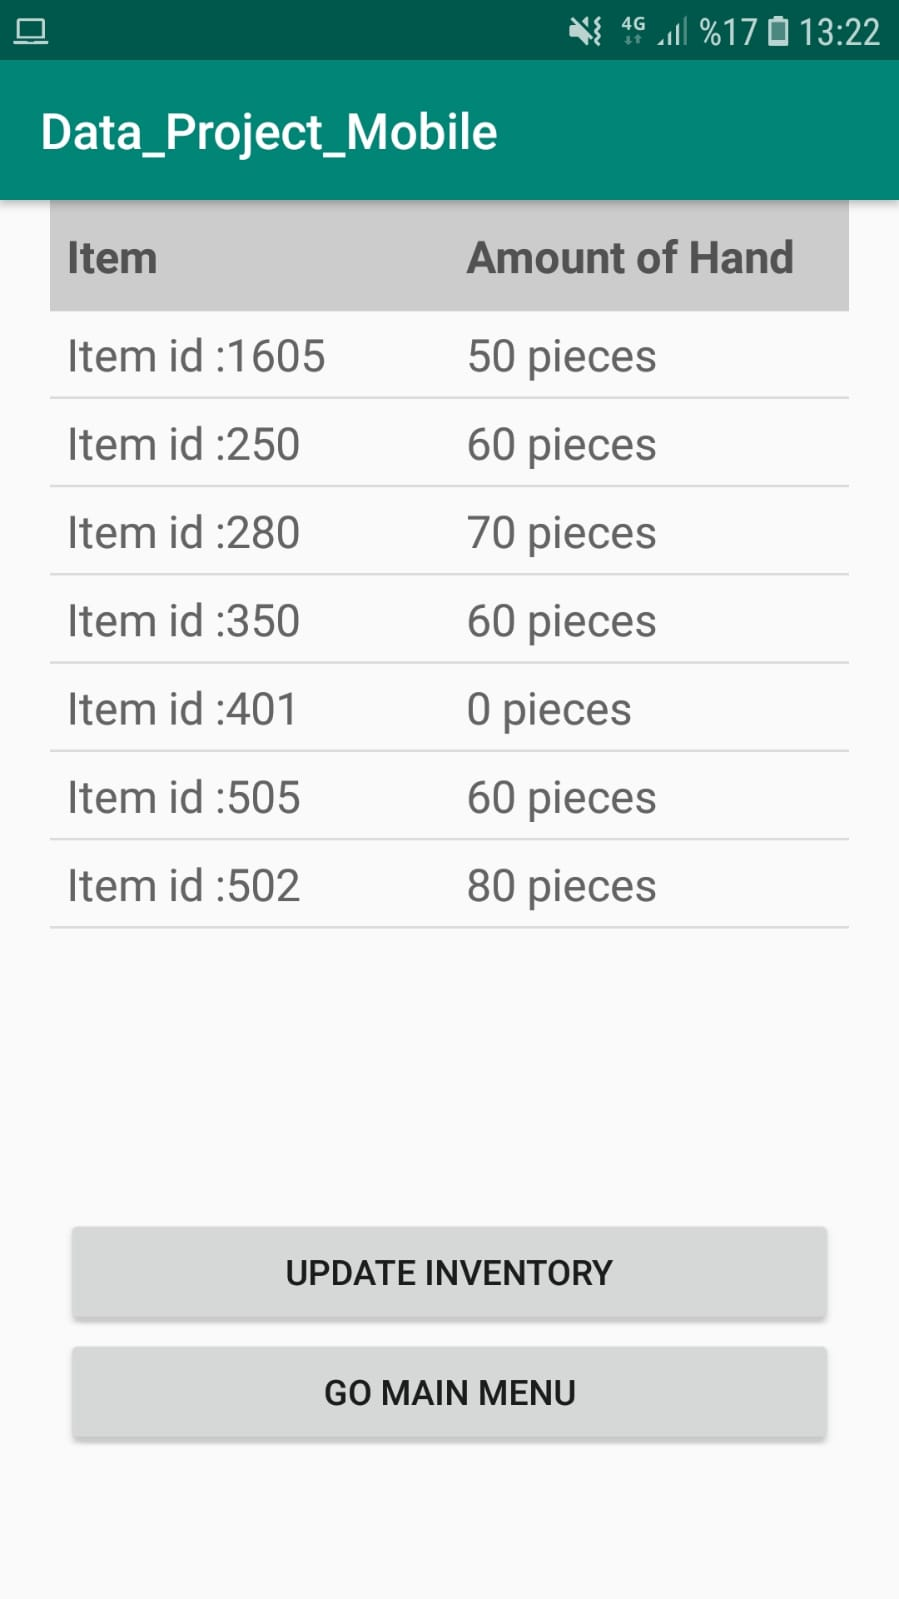
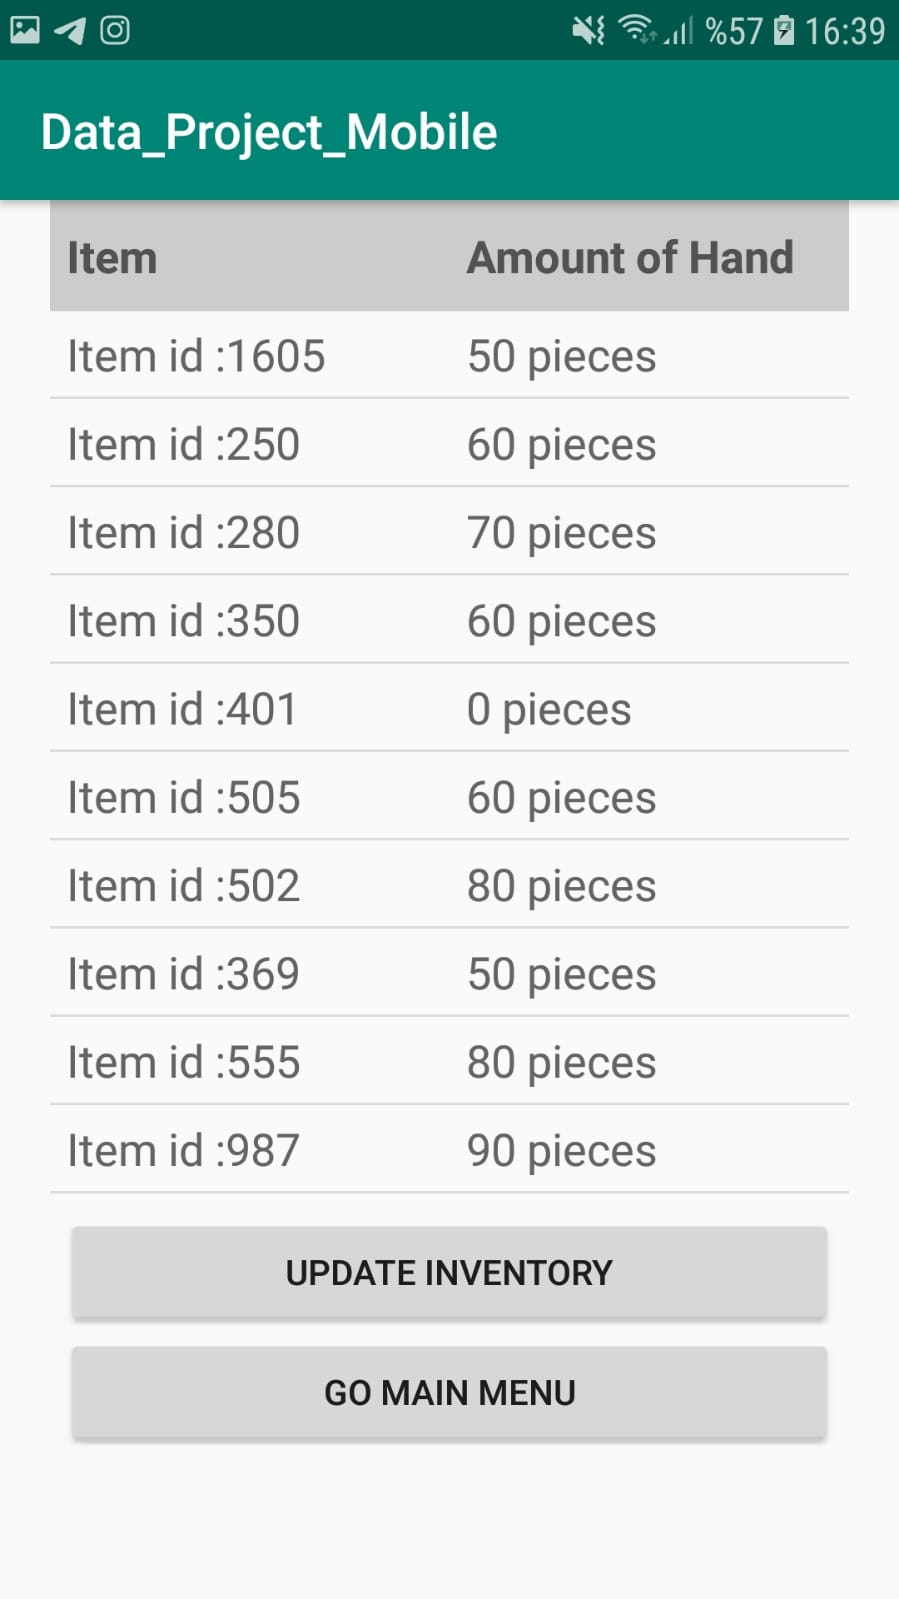
Tree and Inventory Bugs Fixed
-The problem of non-main items not appearing in trees is solved
-Inventory made scrollable

diff --git a/Data_Project_Mobile/app/src/main/java/com/tohandesign/data_project_mobile/TreeViewActivity.java b/Data_Project_Mobile/app/src/main/java/com/tohandesign/data_project_mobile/TreeViewActivity.java
@@ -4,6 +4,8 @@ import androidx.annotation.NonNull;
 import androidx.appcompat.app.AppCompatActivity;
 
 import android.os.Bundle;
+import android.util.Log;
+import android.view.PointerIcon;
 import android.view.View;
 
 
@@ -26,6 +28,17 @@ public class TreeViewActivity extends AppCompatActivity {
 
         db = new DatabaseHelper(getApplicationContext());
         List<ProductItem> items = db.getAllItems();
+        List<ProductItem> mainitems = db.getAllItems();
+        mainitems.clear();
+        for(ProductItem item : items) {
+            if(db.getMain(Long.parseLong(item.getItemId())) < 0){
+
+                mainitems.add(item);
+            }
+        }
+
+
+
 
         TreeView treeView = (TreeView) findViewById(R.id.treeView);
         BaseTreeAdapter adapter = new BaseTreeAdapter<ViewHolder>(this, R.layout.node) {
@@ -38,14 +51,25 @@ public class TreeViewActivity extends AppCompatActivity {
 
             @Override
             public void onBindViewHolder(ViewHolder viewHolder, Object data, int position) {
+
+                if(data != "SYSTEM") {
                 viewHolder.mTextView.setText(data.toString());
-                viewHolder.reqTextView.setText(db.getItem(Long.parseLong(data.toString())).getItemRequired()+ " Required");
+                viewHolder.reqTextView.setText(db.getItem(Long.parseLong(data.toString())).getItemRequired()+ " Required"); }
+                else {
+                    viewHolder.mTextView.setText(data.toString());
+                }
             }
         };
         treeView.setAdapter(adapter);
 
-        if(items.size()>0)
-            adapter.setRootNode(getNode(items.get(0), db));
+        TreeNode rootnode = new TreeNode("SYSTEM");
+
+        if(mainitems.size()>0) {
+            for(ProductItem item : mainitems) {
+                rootnode.addChild(getNode(item, db));
+            }
+        }
+            adapter.setRootNode(rootnode);
 
 
 

diff --git a/Data_Project_Mobile/app/src/main/java/com/tohandesign/data_project_mobile/InventoryActivity.java b/Data_Project_Mobile/app/src/main/java/com/tohandesign/data_project_mobile/InventoryActivity.java
@@ -79,6 +79,9 @@ public class InventoryActivity extends AppCompatActivity {
     public void setTable(String[][] data, String[] header) {
 
         TableView<String[]> tableView = (TableView<String[]>) findViewById(R.id.tableView);
+        android.view.ViewGroup.LayoutParams params = tableView.getLayoutParams();
+        params.height = data[0].length*600;
+        tableView.setLayoutParams(params);
         tableView.setColumnCount(data[0].length);
         tableView.setHeaderAdapter(new SimpleTableHeaderAdapter(this, header));
         tableView.setDataAdapter(new SimpleTableDataAdapter(this, data));
